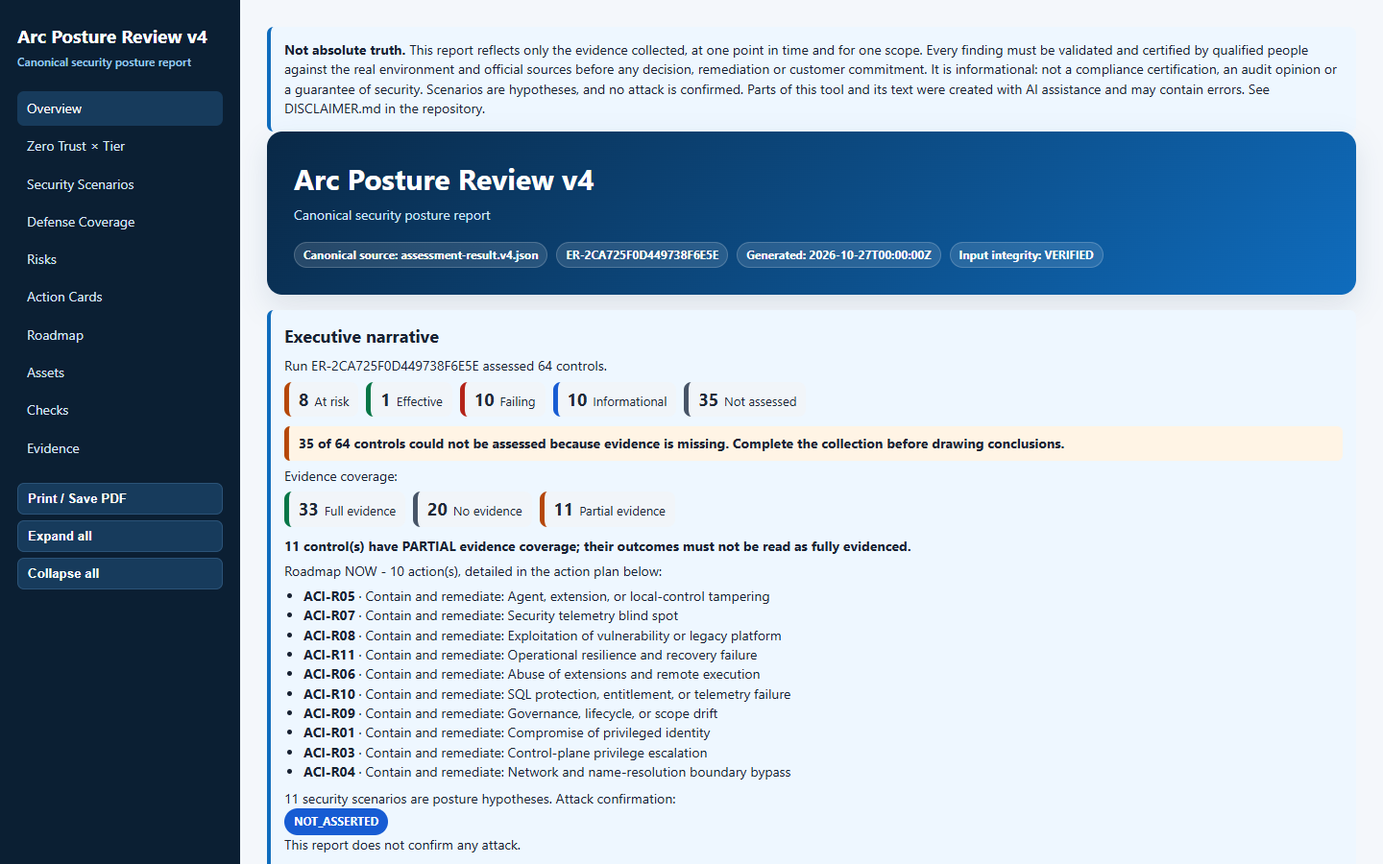
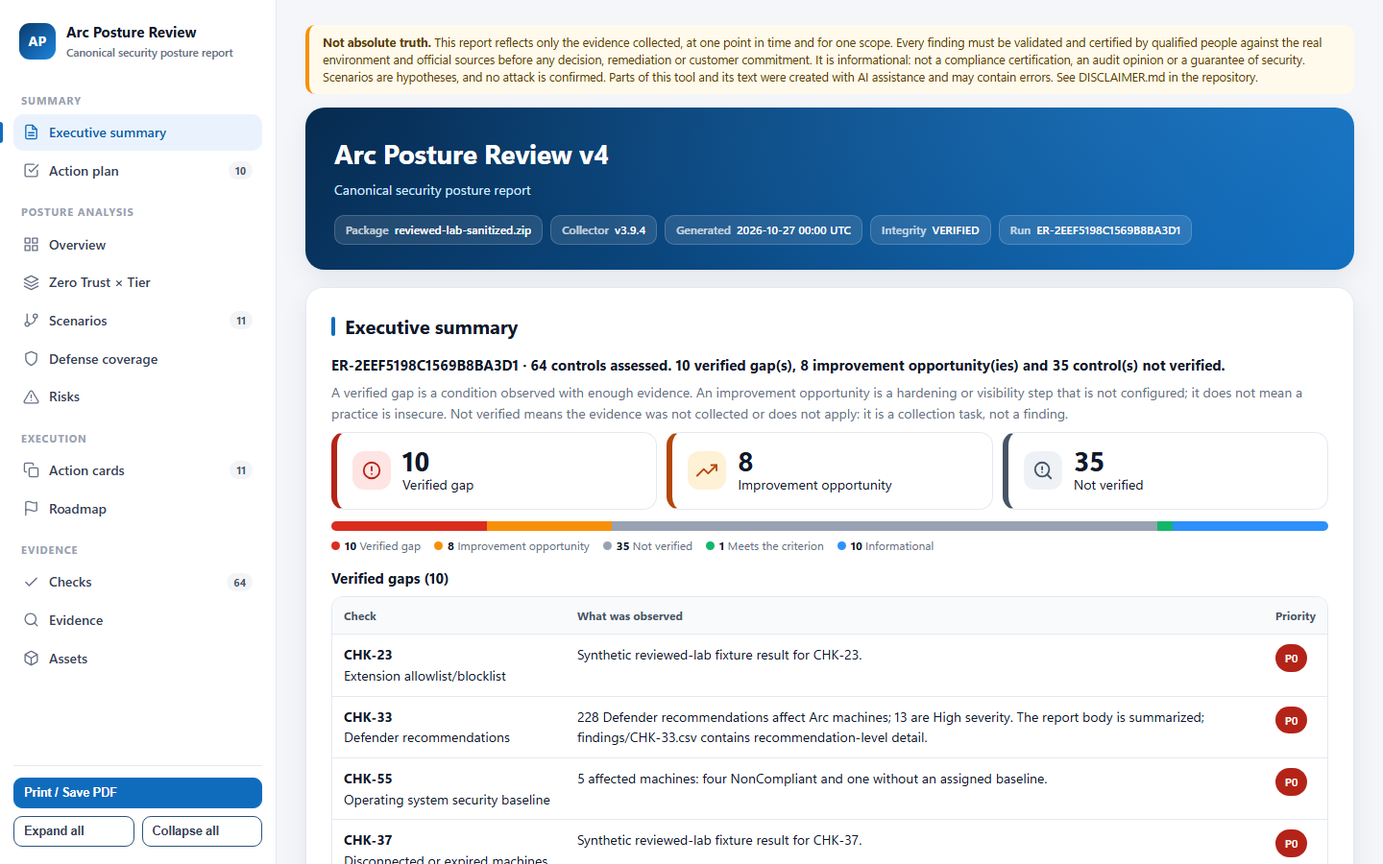
v4.1.1: redesign the v4 report navigation and theme (#33)
Grouped side menu including the executive summary and action plan, scroll
spy in document order, mobile drawer, filter and titles in Checks, refreshed
theme; README screenshots regenerated from the sanitized fixture.

diff --git a/assurance/v4/checkpoint6/report/render_v4.py b/assurance/v4/checkpoint6/report/render_v4.py
@@ -90,13 +90,42 @@ CSS = r"""
 
 JS = r"""'use strict';
 (function(){
-  const links=[...document.querySelectorAll('.side nav a')];
-  const sections=links.map(a=>document.querySelector(a.getAttribute('href'))).filter(Boolean);
-  const activate=()=>{let current=sections[0];for(const section of sections){if(section.getBoundingClientRect().top<=90)current=section;}links.forEach(a=>a.classList.toggle('active',a.getAttribute('href')==='#'+current.id));};
+  const doc=document,body=doc.body;
+  const links=[...doc.querySelectorAll('.side nav a')];
+  const pairs=links.map(a=>[a,doc.querySelector(a.getAttribute('href'))]).filter(p=>p[1]).sort((x,y)=>(x[1].compareDocumentPosition(y[1])&4)?-1:1);
+  const sections=pairs.map(p=>p[1]);
+  const label=doc.getElementById('curlabel'),totop=doc.getElementById('totop');
+  const activate=()=>{
+    if(!sections.length)return;
+    let current=sections[0];
+    for(const section of sections){if(section.getBoundingClientRect().top<=110)current=section;}
+    links.forEach(a=>{
+      const on=a.getAttribute('href')==='#'+current.id;
+      a.classList.toggle('active',on);
+      if(on&&label){const l=a.querySelector('.nl');label.textContent=l?l.textContent:'';}
+    });
+    if(totop)totop.classList.toggle('show',scrollY>600);
+  };
   addEventListener('scroll',activate,{passive:true});activate();
-  document.getElementById('print').addEventListener('click',()=>print());
-  document.getElementById('expand').addEventListener('click',()=>document.querySelectorAll('details').forEach(x=>x.open=true));
-  document.getElementById('collapse').addEventListener('click',()=>document.querySelectorAll('details').forEach(x=>x.open=false));
+  const toggle=doc.getElementById('navtoggle'),veil=doc.getElementById('navveil');
+  if(toggle)toggle.addEventListener('click',()=>body.classList.toggle('navopen'));
+  if(veil)veil.addEventListener('click',()=>body.classList.remove('navopen'));
+  links.forEach(a=>a.addEventListener('click',()=>body.classList.remove('navopen')));
+  if(totop)totop.addEventListener('click',()=>scrollTo({top:0,behavior:'smooth'}));
+  const notice=doc.getElementById('validation-notice');
+  if(notice)notice.addEventListener('click',()=>notice.classList.toggle('open'));
+  doc.getElementById('print').addEventListener('click',()=>print());
+  doc.getElementById('expand').addEventListener('click',()=>doc.querySelectorAll('details').forEach(x=>x.open=true));
+  doc.getElementById('collapse').addEventListener('click',()=>doc.querySelectorAll('details').forEach(x=>x.open=false));
+  const rows=[...doc.querySelectorAll('#checks tbody tr')],input=doc.getElementById('chkfilter'),chips=[...doc.querySelectorAll('[data-filter]')],count=doc.getElementById('chkcount');
+  let mode='ALL';
+  const apply=()=>{
+    const q=(input?input.value:'').trim().toLowerCase();let n=0;
+    rows.forEach(r=>{const ok=(mode==='ALL'||r.dataset.o===mode)&&(!q||r.textContent.toLowerCase().includes(q));r.hidden=!ok;if(ok)n++;});
+    if(count)count.textContent=n;
+  };
+  if(input)input.addEventListener('input',apply);
+  chips.forEach(c=>c.addEventListener('click',()=>{mode=c.dataset.filter;chips.forEach(x=>x.classList.toggle('on',x===c));apply();}));
 })();
 """
 
@@ -882,6 +911,21 @@ SUMMARY_CSS = r"""
 .badge.NOT_APPLICABLE{background:#eef2f6;color:#475467}.k-NOT_APPLICABLE{border-left-color:#98a2b3}
 """
 _CATALOG_TITLES: dict[str, dict[str, str]] | None = None
+_STAT_ICONS = {
+    "gap": '<svg viewBox="0 0 24 24" width="22" height="22" fill="none" stroke="currentColor" stroke-width="2" stroke-linecap="round" stroke-linejoin="round" aria-hidden="true"><circle cx="12" cy="12" r="9"/><line x1="12" y1="8" x2="12" y2="12"/><line x1="12" y1="16" x2="12.01" y2="16"/></svg>',
+    "imp": '<svg viewBox="0 0 24 24" width="22" height="22" fill="none" stroke="currentColor" stroke-width="2" stroke-linecap="round" stroke-linejoin="round" aria-hidden="true"><polyline points="23 6 13.5 15.5 8.5 10.5 1 18"/><polyline points="17 6 23 6 23 12"/></svg>',
+    "nv": '<svg viewBox="0 0 24 24" width="22" height="22" fill="none" stroke="currentColor" stroke-width="2" stroke-linecap="round" stroke-linejoin="round" aria-hidden="true"><circle cx="11" cy="11" r="8"/><line x1="21" y1="21" x2="16.65" y2="16.65"/><line x1="11" y1="8" x2="11" y2="11"/><line x1="11" y1="14" x2="11.01" y2="14"/></svg>',
+}
+
+
+def _outcome_bar(outcomes: dict[str, Any], labels: dict[str, str]) -> str:
+    order = ("INEFFECTIVE", "AT_RISK", "UNASSESSED", "EFFECTIVE", "INFORMATIONAL", "NOT_APPLICABLE")
+    total = sum(int(outcomes.get(key, 0)) for key in order) or 1
+    segments = "".join(f'<i class="o-{key}" style="flex:{int(outcomes[key])}" title="{esc(labels.get(key, key))}: {int(outcomes[key])}"></i>'
+                       for key in order if outcomes.get(key))
+    legend = "".join(f'<span><i class="o-{key}"></i><b>{int(outcomes[key])}</b> {esc(labels.get(key, key))}</span>'
+                     for key in order if outcomes.get(key))
+    return f'<div class="ostack" role="img" aria-label="{total}">{segments}</div><div class="olegend">{legend}</div>'
 
 
 def _check_titles(locale: str) -> dict[str, str]:
@@ -938,9 +982,10 @@ def narrative_html(document: dict[str, Any], locale: str) -> str:
     verdict = t["sumVerdict"].format(run=meta["runId"], n=total, gap=gap, imp=imp, nv=nv)
     cards_html = (
         f'<div class="sum-grid">'
-        f'<div class="sum-card gap"><strong>{gap}</strong>{esc(labels["INEFFECTIVE"])}</div>'
-        f'<div class="sum-card imp"><strong>{imp}</strong>{esc(labels["AT_RISK"])}</div>'
-        f'<div class="sum-card nv"><strong>{nv}</strong>{esc(labels["UNASSESSED"])}</div></div>'
+        f'<div class="sum-card gap"><span class="ico">{_STAT_ICONS["gap"]}</span><strong>{gap}</strong><span>{esc(labels["INEFFECTIVE"])}</span></div>'
+        f'<div class="sum-card imp"><span class="ico">{_STAT_ICONS["imp"]}</span><strong>{imp}</strong><span>{esc(labels["AT_RISK"])}</span></div>'
+        f'<div class="sum-card nv"><span class="ico">{_STAT_ICONS["nv"]}</span><strong>{nv}</strong><span>{esc(labels["UNASSESSED"])}</span></div></div>'
+        + _outcome_bar(outcomes, labels)
     )
     roadmap = "".join(
         f'<li><b>{esc(row["actionCardId"])}</b> · {esc(cards.get(row["actionCardId"], {}).get("title"))}'
@@ -1032,6 +1077,234 @@ def render(document, locale):
     if "</style>" not in html_text:
         raise ValueError("report has no style block")
     return html_text.replace("</style>", SUMMARY_CSS + "</style>", 1)
+
+
+# --- Navigation and visual theme (render-only post-processing) ---------------
+TEXT["en-US"].update({
+    "uxNavLabel": "Report sections", "uxMenu": "Menu", "uxTop": "Back to top",
+    "uxGrpSummary": "Summary", "uxGrpAnalysis": "Posture analysis", "uxGrpExecution": "Execution", "uxGrpEvidence": "Evidence",
+    "uxOverview": "Overview", "uxZt": "Zero Trust × Tier", "uxScenarios": "Scenarios", "uxDefense": "Defense coverage",
+    "uxRisks": "Risks", "uxCards": "Action cards", "uxRoadmap": "Roadmap", "uxAssets": "Assets",
+    "uxChecks": "Checks", "uxEvidence": "Evidence", "uxComparison": "Comparison",
+    "uxFilter": "Filter checks by ID, title or text", "uxAll": "All", "uxShowing": "Showing",
+    "uxPackage": "Package", "uxCollector": "Collector", "uxGenerated": "Generated", "uxIntegrity": "Integrity", "uxRun": "Run",
+})
+TEXT["pt-BR"].update({
+    "uxNavLabel": "Seções do relatório", "uxMenu": "Menu", "uxTop": "Voltar ao topo",
+    "uxGrpSummary": "Resumo", "uxGrpAnalysis": "Análise de postura", "uxGrpExecution": "Execução", "uxGrpEvidence": "Evidências",
+    "uxOverview": "Visão geral", "uxZt": "Zero Trust × Tier", "uxScenarios": "Cenários", "uxDefense": "Cobertura de defesa",
+    "uxRisks": "Riscos", "uxCards": "Action cards", "uxRoadmap": "Roadmap", "uxAssets": "Assets",
+    "uxChecks": "Checks", "uxEvidence": "Evidências", "uxComparison": "Comparação",
+    "uxFilter": "Filtrar checks por ID, título ou texto", "uxAll": "Todos", "uxShowing": "Exibindo",
+    "uxPackage": "Pacote", "uxCollector": "Coletor", "uxGenerated": "Gerado em", "uxIntegrity": "Integridade", "uxRun": "Execução",
+})
+_ICONS = {
+    "executive-narrative": '<path d="M14 2H6a2 2 0 0 0-2 2v16a2 2 0 0 0 2 2h12a2 2 0 0 0 2-2V8z"/><polyline points="14 2 14 8 20 8"/><line x1="16" y1="13" x2="8" y2="13"/><line x1="16" y1="17" x2="8" y2="17"/>',
+    "action-plan": '<polyline points="9 11 12 14 22 4"/><path d="M21 12v7a2 2 0 0 1-2 2H5a2 2 0 0 1-2-2V5a2 2 0 0 1 2-2h11"/>',
+    "overview": '<rect x="3" y="3" width="7" height="7"/><rect x="14" y="3" width="7" height="7"/><rect x="14" y="14" width="7" height="7"/><rect x="3" y="14" width="7" height="7"/>',
+    "zt": '<polygon points="12 2 2 7 12 12 22 7 12 2"/><polyline points="2 17 12 22 22 17"/><polyline points="2 12 12 17 22 12"/>',
+    "scenarios": '<line x1="6" y1="3" x2="6" y2="15"/><circle cx="18" cy="6" r="3"/><circle cx="6" cy="18" r="3"/><path d="M18 9a9 9 0 0 1-9 9"/>',
+    "defense": '<path d="M12 22s8-4 8-10V5l-8-3-8 3v7c0 6 8 10 8 10z"/>',
+    "risks": '<path d="M10.29 3.86L1.82 18a2 2 0 0 0 1.71 3h16.94a2 2 0 0 0 1.71-3L13.71 3.86a2 2 0 0 0-3.42 0z"/><line x1="12" y1="9" x2="12" y2="13"/><line x1="12" y1="17" x2="12.01" y2="17"/>',
+    "cards": '<rect x="9" y="9" width="13" height="13" rx="2" ry="2"/><path d="M5 15H4a2 2 0 0 1-2-2V4a2 2 0 0 1 2-2h9a2 2 0 0 1 2 2v1"/>',
+    "roadmap": '<path d="M4 15s1-1 4-1 5 2 8 2 4-1 4-1V3s-1 1-4 1-5-2-8-2-4 1-4 1z"/><line x1="4" y1="22" x2="4" y2="15"/>',
+    "assets": '<path d="M21 16V8a2 2 0 0 0-1-1.73l-7-4a2 2 0 0 0-2 0l-7 4A2 2 0 0 0 3 8v8a2 2 0 0 0 1 1.73l7 4a2 2 0 0 0 2 0l7-4A2 2 0 0 0 21 16z"/><polyline points="3.27 6.96 12 12.01 20.73 6.96"/><line x1="12" y1="22.08" x2="12" y2="12"/>',
+    "checks": '<polyline points="20 6 9 17 4 12"/>',
+    "evidence": '<circle cx="11" cy="11" r="8"/><line x1="21" y1="21" x2="16.65" y2="16.65"/>',
+    "comparison": '<circle cx="18" cy="18" r="3"/><circle cx="6" cy="6" r="3"/><path d="M13 6h3a2 2 0 0 1 2 2v7"/><line x1="6" y1="9" x2="6" y2="21"/>',
+}
+
+
+def _icon(key: str) -> str:
+    return ('<svg viewBox="0 0 24 24" width="17" height="17" fill="none" stroke="currentColor" stroke-width="1.9" '
+            f'stroke-linecap="round" stroke-linejoin="round" aria-hidden="true">{_ICONS[key]}</svg>')
+
+
+def _ux_nav(document: dict[str, Any], locale: str, page: str) -> str:
+    t = TEXT[locale]
+    cards = len(document["actionCards"])
+    groups = [
+        ("uxGrpSummary", [("executive-narrative", t["narrativeTitle"], ""), ("action-plan", t["planTitle"].split(" - ")[0], str(len(document["roadmap"]["NOW"])))]),
+        ("uxGrpAnalysis", [("overview", t["uxOverview"], ""), ("zt", t["uxZt"], ""), ("scenarios", t["uxScenarios"], str(len(document["securityScenarios"]))),
+                           ("defense", t["uxDefense"], ""), ("risks", t["uxRisks"], "")]),
+        ("uxGrpExecution", [("cards", t["uxCards"], str(cards)), ("roadmap", t["uxRoadmap"], "")]),
+        ("uxGrpEvidence", [("checks", t["uxChecks"], str(len(document["controlAssessments"]))), ("evidence", t["uxEvidence"], ""),
+                           ("assets", t["uxAssets"], ""), ("comparison", t["uxComparison"], "")]),
+    ]
+    out = []
+    for group_key, items in groups:
+        links = "".join(
+            f'<a href="#{sid}"><span class="ni">{_icon(sid)}</span><span class="nl">{esc(label)}</span>'
+            + (f'<span class="nc">{esc(count)}</span>' if count else "") + "</a>"
+            for sid, label, count in items if f'id="{sid}"' in page
+        )
+        if links:
+            out.append(f'<div class="ng">{esc(t[group_key])}</div>{links}')
+    return f'<nav aria-label="{esc(t["uxNavLabel"])}">{"".join(out)}</nav>'
+
+
+def _ux_hero_meta(document: dict[str, Any], locale: str) -> str:
+    t = TEXT[locale]
+    meta = document["metadata"]
+    source = meta["source"]
+    generated = str(meta["generatedAt"])[:16].replace("T", " ") + " UTC"
+    chips = [
+        (t["uxPackage"], source.get("name")), (t["uxCollector"], source.get("collectorVersion")),
+        (t["uxGenerated"], generated), (t["uxIntegrity"], source.get("integrity")), (t["uxRun"], meta["runId"]),
+    ]
+    return '<div class="meta">' + "".join(f'<span><i>{esc(k)}</i> {esc(v)}</span>' for k, v in chips if v) + "</div>"
+
+
+def _ux_checks(page: str, document: dict[str, Any], locale: str) -> str:
+    import re as _re
+    t = TEXT[locale]
+    labels = STATUS_LABELS[locale]
+    titles = _check_titles(locale)
+    outcomes = ("INEFFECTIVE", "AT_RISK", "UNASSESSED", "EFFECTIVE", "INFORMATIONAL", "NOT_APPLICABLE")
+    total = len(document["controlAssessments"])
+
+    def row(match: Any) -> str:
+        cid, inner = match.group(1), match.group(2)
+        found = next((o for o in outcomes if f'<span class="badge {o}">' in inner), "")
+        inner = inner.replace(f"<td>{cid}</td>", f'<td><b>{cid}</b><br><span class="ctitle">{esc(titles.get(cid, ""))}</span></td>', 1)
+        if found:
+            inner = inner.replace(f'<span class="badge {found}">{found}</span>',
+                                  f'<span class="badge {found}" title="{found}">{esc(labels.get(found, found))}</span>', 1)
+        return f'<tr id="chk-{cid}" data-o="{found}">{inner}</tr>'
+
+    page = _re.sub(r'<tr id="chk-(CHK-\d+)">(.*?)</tr>', row, page, flags=_re.S)
+    chips = "".join(
+        f'<button type="button" class="chip{" on" if key == "ALL" else ""}" data-filter="{key}">{esc(text)}</button>'
+        for key, text in (("ALL", t["uxAll"]), ("INEFFECTIVE", labels["INEFFECTIVE"]), ("AT_RISK", labels["AT_RISK"]),
+                          ("UNASSESSED", labels["UNASSESSED"]), ("EFFECTIVE", labels["EFFECTIVE"]))
+    )
+    bar = (f'<div class="fbar"><input id="chkfilter" type="search" placeholder="{esc(t["uxFilter"])}" aria-label="{esc(t["uxFilter"])}">'
+           f'<div class="chips">{chips}</div><span class="muted">{esc(t["uxShowing"])} <b id="chkcount">{total}</b> / {total}</span></div>')
+    marker = f'<h2>{esc(t["checks"])}</h2>'
+    if page.count(marker) != 1:
+        raise ValueError("checks heading anchor not found for the filter bar")
+    return page.replace(marker, marker + bar, 1)
+
+
+UX_CSS = r"""
+:root{--bg:#f4f6fa;--paper:#fff;--ink:#101828;--muted:#667085;--line:#e4e9f1;--blue:#0f6cbd;--accent:#0f6cbd;--soft:#eaf3fd;--shadow:0 1px 2px #1018280a,0 10px 28px #10182812}
+body{font:14px/1.55 "Segoe UI Variable Text","Segoe UI",system-ui,-apple-system,Roboto,Arial,sans-serif;background:var(--bg);color:var(--ink);-webkit-font-smoothing:antialiased}
+.shell{grid-template-columns:288px minmax(0,1fr)}
+.side{background:#fff;color:var(--ink);border-right:1px solid var(--line);padding:18px 14px;display:flex;flex-direction:column;gap:4px;box-shadow:none}
+.brand{display:flex;align-items:center;gap:11px;font-size:15px;color:var(--ink);padding:4px 6px 14px}
+.brand .logo{display:grid;place-items:center;width:38px;height:38px;border-radius:11px;background:linear-gradient(135deg,#0b3a6b,#1b86e0);color:#fff;font-weight:800;font-size:14px;letter-spacing:.02em}
+.brand small{color:var(--muted);font-size:11.5px;margin-top:1px}
+.side nav{display:flex;flex-direction:column;gap:2px;margin:0;flex:1}
+.ng{margin:14px 8px 4px;font-size:11px;font-weight:700;letter-spacing:.08em;text-transform:uppercase;color:#98a2b3}
+.side nav a{display:flex;align-items:center;gap:10px;padding:8px 10px;border-radius:10px;color:#344054;font-weight:560;white-space:normal;position:relative}
+.side nav a .ni{display:grid;place-items:center;color:#667085;flex:none}
+.side nav a .nl{flex:1;min-width:0}
+.side nav a .nc{flex:none;min-width:22px;text-align:center;font-size:11px;font-weight:700;color:#475467;background:#f2f4f7;border-radius:999px;padding:1px 7px}
+.side nav a:hover{background:#f5f8fc;color:var(--ink)}
+.side nav a.active{background:var(--soft);color:#0b5cad}
+.side nav a.active .ni{color:var(--accent)}
+.side nav a.active::before{content:"";position:absolute;left:-14px;top:8px;bottom:8px;width:3px;border-radius:0 3px 3px 0;background:var(--accent)}
+.side nav a.active .nc{background:#fff;color:#0b5cad}
+.side .toolbar{display:grid;grid-template-columns:1fr 1fr;gap:8px;margin:12px 0 0;padding-top:12px;border-top:1px solid var(--line)}
+.side .toolbar .btn{padding:8px 10px;font-size:12.5px;border-radius:9px;background:#fff;color:#344054}
+.side .toolbar #print{grid-column:1/3;background:var(--accent);border-color:var(--accent);color:#fff}
+.side .toolbar .btn:hover{filter:brightness(.97)}
+.main{max-width:1320px;width:100%;margin:0 auto;padding:26px 30px 60px}
+.hero{background:radial-gradient(900px 260px at 90% -20%,#3aa0f255,transparent),linear-gradient(135deg,#072b50,#0f6cbd);border-radius:20px;padding:26px 30px;box-shadow:var(--shadow)}
+.hero h1{font-size:28px;letter-spacing:-.01em}
+.hero .meta{gap:8px;margin-top:16px}
+.hero .meta span{border-radius:10px;padding:5px 11px;font-weight:600;background:#ffffff1c}
+.hero .meta i{font-style:normal;font-weight:500;opacity:.75;margin-right:6px}
+#validation-notice{font-size:12.5px;line-height:1.45;padding:9px 14px;margin:0 0 14px;background:#fffaeb;border-left:4px solid #f79009;color:#5b3d05;border-radius:10px}
+.section,#executive-narrative,#action-plan{scroll-margin-top:76px}
+.section,.plan,.narrative{background:var(--paper);border:1px solid var(--line);border-radius:18px;box-shadow:var(--shadow);padding:24px 26px;margin:18px 0}
+.narrative.notice{border-left:1px solid var(--line)}
+.section h2,.narrative h2,.plan h2{display:flex;align-items:center;gap:10px;font-size:20px;letter-spacing:-.005em;margin:0 0 14px}
+.section h2::before,.narrative h2::before,.plan h2::before{content:"";width:4px;height:20px;border-radius:3px;background:var(--accent)}
+th{background:#f8fafc;color:#475467;font-size:12px;font-weight:650}
+td,th{padding:10px 12px}
+tbody tr:hover td{background:#fafcff}
+.tablewrap{border-radius:12px}
+.badge{font-weight:620}
+td .badge{white-space:nowrap}
+.card{border-radius:14px}
+.ctitle{color:var(--muted);font-size:12px}
+.fbar{display:flex;flex-wrap:wrap;gap:10px;align-items:center;margin:0 0 12px}
+.fbar input{flex:1 1 260px;min-width:0;padding:9px 12px;border:1px solid var(--line);border-radius:11px;font:inherit;background:#fff}
+.fbar input:focus,.btn:focus-visible,.chip:focus-visible,.side nav a:focus-visible{outline:2px solid var(--accent);outline-offset:2px}
+.chips{display:flex;flex-wrap:wrap;gap:6px}
+.chip{border:1px solid var(--line);background:#fff;border-radius:999px;padding:5px 12px;font:inherit;font-size:12.5px;font-weight:600;color:#475467;cursor:pointer}
+.chip.on{background:var(--accent);border-color:var(--accent);color:#fff}
+.sum-card{border-radius:14px;display:grid;grid-template-columns:auto 1fr;column-gap:12px;align-items:center;padding:14px 16px}
+.sum-card .ico{grid-row:1/3;display:grid;place-items:center;width:40px;height:40px;border-radius:12px;background:#f2f4f7;color:#475467}
+.sum-card.gap .ico{background:#fee4e2;color:#b42318}.sum-card.imp .ico{background:#fff1d6;color:#b54708}.sum-card.nv .ico{background:#eef2f6;color:#475467}
+.sum-card strong{font-size:28px;line-height:1.05}
+.ostack{display:flex;height:10px;border-radius:999px;overflow:hidden;background:#eef2f6;margin:12px 0 6px}
+.ostack i{display:block;min-width:3px}
+.o-INEFFECTIVE{background:#d92d20}.o-AT_RISK{background:#f79009}.o-UNASSESSED{background:#98a2b3}.o-EFFECTIVE{background:#12b76a}.o-INFORMATIONAL{background:#2e90fa}.o-NOT_APPLICABLE{background:#d0d5dd}
+.olegend{display:flex;flex-wrap:wrap;gap:6px 14px;font-size:12px;color:var(--muted);margin-bottom:6px}
+.olegend b{color:var(--ink)}.olegend i{display:inline-block;width:9px;height:9px;border-radius:50%;margin-right:5px;vertical-align:baseline}
+.topbar,.veil{display:none}
+.totop{position:fixed;right:22px;bottom:22px;z-index:20;width:42px;height:42px;border-radius:50%;border:1px solid var(--line);background:#fff;color:#344054;box-shadow:var(--shadow);cursor:pointer;opacity:0;pointer-events:none;transition:opacity .15s}
+.totop.show{opacity:1;pointer-events:auto}
+@media(prefers-reduced-motion:reduce){html{scroll-behavior:auto}}
+@media(max-width:900px){
+.shell{display:block}
+.topbar{display:flex;align-items:center;gap:10px;position:sticky;top:0;z-index:30;background:#ffffffee;backdrop-filter:blur(8px);border-bottom:1px solid var(--line);padding:9px 12px}
+.topbar button{border:1px solid var(--line);background:#fff;border-radius:10px;padding:6px 9px;display:grid;place-items:center;cursor:pointer}
+.topbar .tt{font-weight:700}.topbar .cur{margin-left:auto;color:var(--muted);font-size:12.5px;max-width:48%;overflow:hidden;text-overflow:ellipsis;white-space:nowrap}
+.side{position:fixed;left:0;top:0;bottom:0;height:100vh;width:min(86vw,320px);z-index:40;transform:translateX(-104%);transition:transform .2s ease;box-shadow:0 0 40px #10182833;overflow:auto}
+body.navopen .side{transform:none}
+body.navopen .veil{display:block;position:fixed;inset:0;background:#0c122066;z-index:35}
+.side nav{display:flex;overflow:visible}
+.side nav a.active::before{left:-14px}
+.main{padding:14px 14px 50px}
+.section,.plan,.narrative{padding:18px 16px;border-radius:16px}
+.hero{padding:20px 18px}.hero h1{font-size:23px}
+.sum-card strong{font-size:24px}
+#validation-notice{cursor:pointer;display:-webkit-box;-webkit-box-orient:vertical;-webkit-line-clamp:3;overflow:hidden}
+#validation-notice.open{display:block;-webkit-line-clamp:unset}
+}
+@media print{#validation-notice{display:block;-webkit-line-clamp:unset;overflow:visible}.topbar,.veil,.totop,.fbar{display:none!important}.main{max-width:none;padding:0}.section,.plan,.narrative{box-shadow:none;border-radius:0}tr[hidden]{display:table-row}}
+"""
+
+
+def _ux_page(page: str, document: dict[str, Any], locale: str) -> str:
+    import re as _re
+    t = TEXT[locale]
+    aside = _re.search(r'<aside class="side">.*?</aside>', page, _re.S)
+    if not aside:
+        raise ValueError("sidebar anchor not found for the navigation layer")
+    side = (
+        f'<aside class="side" id="sidebar"><div class="brand"><span class="logo">AP</span><span>Arc Posture Review<small>{esc(t["subtitle"])}</small></span></div>'
+        f'{_ux_nav(document, locale, page)}'
+        f'<div class="toolbar"><button class="btn" id="print">{esc(t["print"])}</button>'
+        f'<button class="btn" id="expand">{esc(t["expand"])}</button><button class="btn" id="collapse">{esc(t["collapse"])}</button></div></aside>'
+    )
+    page = page[:aside.start()] + side + page[aside.end():]
+    topbar = (f'<div class="topbar"><button type="button" id="navtoggle" aria-controls="sidebar" aria-label="{esc(t["uxMenu"])}">{_icon("overview")}</button>'
+              f'<span class="tt">Arc Posture Review</span><span id="curlabel" class="cur"></span></div><div id="navveil" class="veil"></div>')
+    shell = '<div class="shell">'
+    if page.count(shell) != 1:
+        raise ValueError("shell anchor not found for the navigation layer")
+    page = page.replace(shell, shell + topbar, 1)
+    hero = _re.search(r'(<header class="hero">.*?)<div class="meta">.*?</div>(</header>)', page, _re.S)
+    if not hero:
+        raise ValueError("hero anchor not found for the navigation layer")
+    page = page[:hero.start()] + hero.group(1) + _ux_hero_meta(document, locale) + hero.group(2) + page[hero.end():]
+    page = _ux_checks(page, document, locale)
+    top = f'<button type="button" id="totop" class="totop" aria-label="{esc(t["uxTop"])}" title="{esc(t["uxTop"])}">↑</button>'
+    anchor = '<script type="application/json" id="canonical-assessment">'
+    if page.count(anchor) != 1:
+        raise ValueError("script anchor not found for the back-to-top control")
+    return page.replace(anchor, top + anchor, 1).replace("</style>", UX_CSS + "</style>", 1)
+
+
+_render_without_ux = render
+
+
+def render(document, locale):
+    return _ux_page(_render_without_ux(document, locale), document, locale)
 
 
 if __name__ == "__main__":

diff --git a/assurance/v4/checkpoint6/tests/Test-ReportContract.py b/assurance/v4/checkpoint6/tests/Test-ReportContract.py
@@ -74,8 +74,11 @@ def main() -> int:
     chk_hrefs = {href for href in parsed.hrefs if href.startswith("chk-")}  # PR18: CHK pills link to Checks rows
     if chk_hrefs - parsed.ids:
         errors.append(f"CHK links without target: {sorted(chk_hrefs - parsed.ids)[:5]}")
-    if set(parsed.hrefs) - chk_hrefs != required:
-        errors.append("navigation targets do not match required sections")
+    nav_targets = set(parsed.hrefs) - chk_hrefs
+    if nav_targets - parsed.ids:
+        errors.append(f"navigation targets without a section: {sorted(nav_targets - parsed.ids)}")
+    if not required <= nav_targets or nav_targets - required - {"executive-narrative", "action-plan"}:
+        errors.append("navigation must link every report section plus the executive summary and the action plan")
     if parsed.meta.get("arc-report-contract") != "assessment-result.v4" or parsed.meta.get("arc-report-mode") != "render-only":
         errors.append("render-only contract metadata is absent")
     if parsed.scenarios != [f"AS{i:02d}" for i in range(1, 12)]:

diff --git a/CHANGELOG.md b/CHANGELOG.md
@@ -10,6 +10,7 @@
 - N/A results carry FULL evidence coverage so the engine can prove non-applicability (v4.0.3 addendum item F5).
 - Engine: scenarios driven only by not-verified controls cannot score above P2 or reach NOW; a defense function with only informational or not-applicable controls is UNKNOWN; action cards carry an optional `basis` (`VERIFIED_GAP`, `IMPROVEMENT`, `EVIDENCE_COLLECTION`) and containment wording is reserved for verified gaps.
 - v4 report: report-style executive summary (verified gaps, improvement opportunities, not-verified controls with check titles), reading guide and legend, and an action plan grouped by what to do. Stored enums and canonical codes are unchanged.
+- v4 report navigation and look: grouped side menu that now includes the executive summary and the action plan, scroll-following highlight in document order, mobile drawer, back-to-top, a text and outcome filter in *Checks* with titles and plain-language outcomes, and a refreshed theme; the report contract test now requires navigation to link every section plus the summary and plan.
 - Guide (EN-US/PT-BR, Markdown and embedded HTML) explains how to read results; the stale "Canonical guide" badge and the `var VERSION` marker are now covered by `tools/Test-GuideVersion.py`; version-sensitive tests read `VERSION` instead of hardcoding it.
 - Moved the approved `pypdf` pin to `6.21.4`, the first patched version for the 14 alerts raised against `6.21.2`.
 - `tools/Prepare-Release.py checksums` also regenerates the root `SHA256SUMS.txt` from the tracked files; the release gate no longer hardcodes the v4.1.0 branch and documents.

diff --git a/README.pt-BR.md b/README.pt-BR.md
@@ -42,7 +42,7 @@ Exemplo: `./Invoke-ArcPostureReview.ps1 -Subscriptions "<nome ou id>" -AllowedRe
 
 - **64 controles** (45 automáticos, 19 documentais) e **11 cenários de segurança**, cada um rastreado Evidência → Observação → Afirmação → Controle → Cenário.
 - **Execução primeiro:** resumo executivo em formato de relatório (lacunas verificadas, oportunidades de melhoria e controles não verificados, com título dos checks e legenda de leitura) e plano de ação AGORA agrupado pelo que fazer (corrigir lacunas verificadas, melhorar a postura, completar a coleta de evidências), na ordem canônica de prioridade, com rastro de evidência recolhível para cada check listado.
-- **Navegação:** menu fixo com imprimir/expandir/recolher; cada `CHK-xx` leva à linha correspondente em *Checks*; visão Zero Trust × Tier com barras de resultado.
+- **Navegação:** menu lateral agrupado (Resumo, Análise de postura, Execução, Evidências) com ícones, contadores e destaque que acompanha a rolagem; menu em gaveta no celular; filtro por ID, título ou resultado em *Checks* (com títulos e resultados em linguagem clara); cada `CHK-xx` leva à linha correspondente; voltar ao topo, imprimir e expandir/recolher; visão Zero Trust × Tier com barras de resultado.
 - **Links para o portal Azure** por linha de achado (índice de recursos vinculado ao `runId` e ao SHA-256 do pacote).
 - **Antes/depois** somente quando um pacote de baseline é informado (`--baseline`).
 - Evidência ausente nunca vira aprovação; caminhos de ataque nunca são afirmados como confirmados.

diff --git a/README.md b/README.md
@@ -42,7 +42,7 @@ Example: `./Invoke-ArcPostureReview.ps1 -Subscriptions "<name or id>" -AllowedRe
 
 - **64 controls** (45 automated, 19 documentary) and **11 security scenarios**, each traced Evidence → Observation → Claim → Control → Scenario.
 - **Execution first:** a report-style executive summary (verified gaps, improvement opportunities and not-verified controls, with check titles and a reading legend) and a NOW action plan grouped by what to do (remediate verified gaps, improve posture, complete evidence collection), in canonical priority order, with a collapsible evidence trace per listed check.
-- **Navigation:** sticky menu with print/expand/collapse; every `CHK-xx` links to its row in *Checks*; Zero Trust × Tier view with outcome bars.
+- **Navigation:** grouped side menu (Summary, Posture analysis, Execution, Evidence) with icons, counts and a highlight that follows the scroll; a mobile menu drawer; a filter by ID, title or outcome in *Checks* (with titles and plain-language outcomes); every `CHK-xx` links to its row; back-to-top, print and expand/collapse; Zero Trust × Tier view with outcome bars.
 - **Azure portal links** per finding row (resource index bound to the run `runId` and package SHA-256).
 - **Before/after** only when a baseline package is supplied (`--baseline`).
 - Missing evidence never becomes a pass; attack paths are never asserted as confirmed.

diff --git a/docs/v4.1.1-posture-vs-evidence.md b/docs/v4.1.1-posture-vs-evidence.md
@@ -43,6 +43,7 @@ CHK-55 is unchanged: explicit `NonCompliant` Machine Configuration evidence is a
 - A defense function whose controls are only informational or not applicable is `UNKNOWN`, never `EFFECTIVE`.
 - Each action card carries `basis`: `VERIFIED_GAP`, `IMPROVEMENT` or `EVIDENCE_COLLECTION`. Containment wording is reserved for verified gaps; the other bases use posture or evidence work wording and actions.
 - The executive summary lists verified gaps, improvement opportunities and not-verified controls with check titles, keeps the canonical codes and the legend, and groups the action plan by what to do.
+- Navigation and look: the side menu is grouped (Summary, Posture analysis, Execution, Evidence) and includes the executive summary and the action plan, which had no menu entry; the highlight follows the scroll in document order, the menu becomes a drawer on small screens, *Checks* shows titles and plain-language outcomes with a text and outcome filter, and the theme, spacing and header were refreshed. Print output keeps the full validation notice and every row.
 
 ## Regression coverage
 

diff --git a/release/v4.1.1/RELEASE-NOTES.md b/release/v4.1.1/RELEASE-NOTES.md
@@ -10,6 +10,7 @@
 - N/A results carry FULL evidence coverage, so non-applicability is no longer treated as unassessed.
 - Scenarios driven only by not-verified controls cannot reach the NOW horizon, and a defense function with only informational or not-applicable controls is UNKNOWN, not EFFECTIVE.
 - The v4 report has a report-style executive summary: verified gaps, improvement opportunities and not-verified controls, with check titles, and an action plan grouped by what to do. Action cards carry a `basis`.
+- The v4 report navigation was redesigned (grouped menu including the summary and the plan, scroll-following highlight, mobile drawer, filter in Checks) with a refreshed theme.
 - Guide, README, HTML pages and guide-version markers state v4.1.1; the stale "Canonical guide" badge is now checked by `tools/Test-GuideVersion.py`.
 - `pypdf` moved to `6.21.4`, closing the 14 open Dependabot alerts.
 
